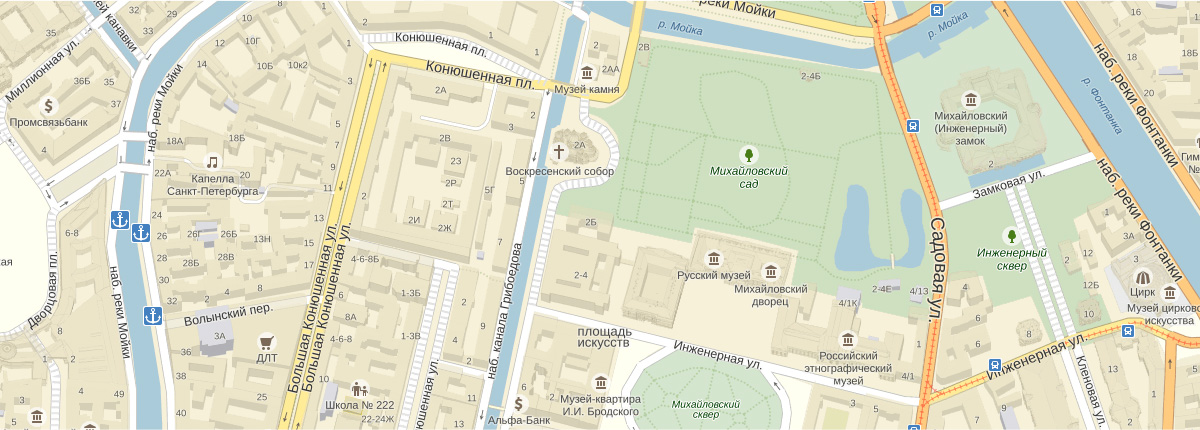
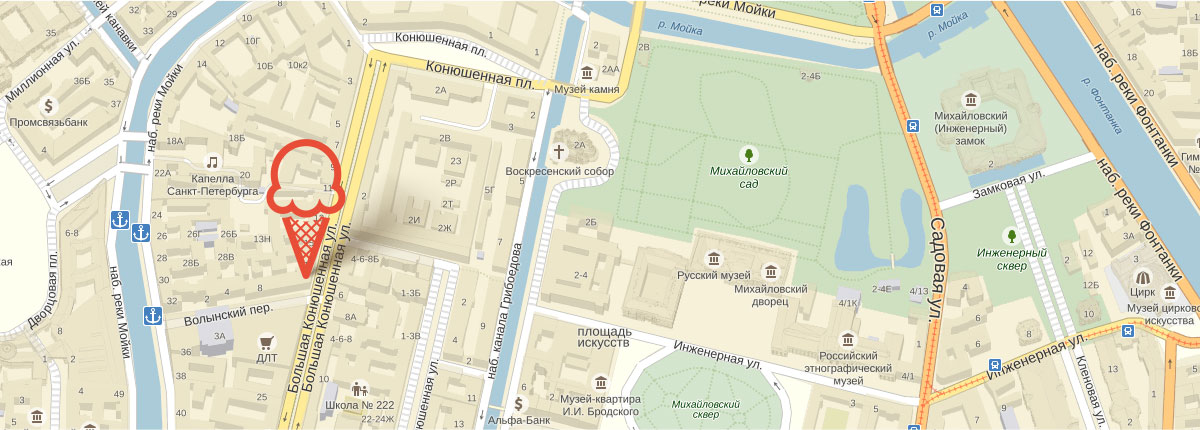
Добавления
Добавил форму "Мы обязательно вам ответим" на главную страницу , добавил скрытые заголовки+лейблы для форм.
Добавил visually-hidden в css файл.

Changed region(s): [[0.2158, 0.3023, 0.37, 0.6651], [0.74, 0.9977, 0.7708, 1.0]]

diff --git a/index.html b/index.html
@@ -4,6 +4,7 @@
 <head>
   <meta charset="utf-8">
   <title>HTML Academy: Глейси</title>
+  <link rel="stylesheet" href="css/style.css">
 </head>
 
 <body>
@@ -25,17 +26,19 @@
         <li><a href="#">О компании</a></li>
       </ul>
       <div class="search">
-        Поиск
         <form class="search-form" id="search-form" action="/" method="get">
-          <input type="text" name="search-question" placeholder="Что ищем?">
+          <label for="search-question" class="visually-hidden">Поиск</label>
+          <input type="text" name="search-question" id="search-question" placeholder="Что ищем?">
         </form>
       </div>
       <div class="signup">
-        Вход
+        <span class="enter-form">Вход</span>
         <form class="sign-form" id="sign-form" action="/" method="post">
-          <input type="email" name="email" placeholder="Электронная почта">
-          <input type="password" name="password" placeholder="Пароль">
-          <input class="btn" type="submit" value="Войти">
+          <label for="signup-email" class="visually-hidden">Электронная почта</label>
+          <input type="email" name="email" id="signup-email" placeholder="Электронная почта">
+          <label for="signup-password" class="visually-hidden">Пароль</label>
+          <input type="password" name="password" id="signup-password" placeholder="Пароль">
+          <input class="button" type="submit" value="Войти">
           <div class="signup_links">
             <a class="signup_link" href="#">
                     <span class="signup_link__password">Забыли пароль?</span></a>
@@ -57,7 +60,8 @@
     <section class="slider">
       <h2>Крем брюле и пломбир с малиновым джемом</h2>
       <h2>Шоколадный пломбир и лимонный сорбет</h2>
-      <h2>Пломбир с помадкой и клубничный щербет</h2> <a href="#" class="botton">Дайте оба!</a>
+      <h2>Пломбир с помадкой и клубничный щербет</h2>
+      <a href="#" class="button">Дайте оба!</a>
       <input type="radio" name="choose" value="a" checked>
       <input type="radio" name="choose" value="b">
       <input type="radio" name="choose" value="c">
@@ -65,13 +69,14 @@
     <section class="banner1">
       <h3>Малинка даром!</h3>
       <p>При покупке 2 кг любого фруктового мороженого, добавим в ваш заказ банку малинового варенья бесплатно.</p>
-      <a href="#" class="botton">Хочу варенье!</a>
+      <a href="#" class="button">Хочу варенье!</a>
     </section>
     <section class="banner2">
       <h3>Шоколадки даром!</h3>
       <p>При покупке 2 кг пломбира, добавим в ваш заказ упаковку вкуснейшей шоколадной присыпки совершенно бесплатно.</p>
-      <a href="#" class="botton">Хочу шоколадки!</a>
+      <a href="#" class="button">Хочу шоколадки!</a>
     </section>
+  <h2 class="visually-hidden">Хиты</h2>
     <div class="hits">
       <div class="catalog_item">
         <div class="catalog_item_prewiew_hit"></div>
@@ -111,7 +116,7 @@
         <li class="about_shop_icecream">Все наше мороженое изготавливается на собственном производстве, с использованием современного оборудования и проверенных временем технологий.</li>
         <li class="about_shop_cow">Для приготовления мороженого используются настоящие сливки и молоко высочайшего качества. Все дополнительные ингредиенты и добавки произведены из натурального, экологически чистого сырья.</li>
         <li class="about_shop_leaf">Закупка ингредиентов производится только у проверенных фермерских хозяйств и компаний, с которыми нас связывает долговременное сотрудничество.</li>
-        <li class="about shop_term">Доставка нашего мороженого до заказчиков осуществляется в специальном термопаке, который не дает мороженому растаять в пути и позволяет сохранить превосходный вкус.</li>
+        <li class="about_shop_term">Доставка нашего мороженого до заказчиков осуществляется в специальном термопаке, который не дает мороженому растаять в пути и позволяет сохранить превосходный вкус.</li>
       </ul>
     </div>
     <article class="news">
@@ -120,26 +125,30 @@
     </article>
     <div class="mailing">
       <p>Подпишитесь на нашу сладкую рассылку и будете всегда в курсе всего самого вкусного, что у нас происходит. Обещаем не спамить и не слать всякой ненужной ерунды. Честно =)</p>
-      <input type="email" placeholder="Электронная почта"><a href="#" class="botton">Отправить</a>
+      <form class="mail-form" id="mail-form" action="https://echo.htmlacademy.ru" method="post">
+        <label for="mail-input" class="visually-hidden">Электронная почта</label><input type="text" id="mail-input" placeholder="Электронная почта">
+        <button class="button" type="submit">Отправить</button></form>
     </div>
     <div class="map">
-      <!-- Здесь будет карта -->
+      <img src="img/map.jpg" width="1200" height="430" alt="Адрес главного офиса и офлайн-магазина: ул. Большая Конюшенная 19/8, Санкт-Петербург">
       <section class="address">
         <h4>Адрес главного офиса и офлайн-магазина:</h4>
         <p>ул. Большая Конюшенная 19/8, Санкт-Петербург</p>
         <p>Для заказов по телефону:</p>
-        <p>8 812 450-25-25<br> (с 10 до 20 ежедневно)
+        <p><b>8 812 450-25-25</b><br> (с 10 до 20 ежедневно)
         </p>
+        <a class="button" href="#">Форма обратной связи</a>
       </section>
     </div>
   </main>
   <footer class="main-footer">
-    <div class="social">
-      <a href="https://twitter.com/" class=" social-tw">Твиттер</a>
-      <a href="https://instagram.com/" class="social-ins">Инстаграм</a>
-      <a href="https://facebook.com/" class="social-fb">Фейбук</a>
-      <a href="https://vk.com/" class="social-vk">Вконтакте</a>
-    </div>
+    <section class="social-links">
+      <h2 class="visually-hidden">Социальные сети:</h2>
+      <a href="https://twitter.com/" class="social-tw" aria-label="Твиттер">Твиттер</a>
+      <a href="https://instagram.com/" class="social-ins" aria-label="Инстаграм">Инстаграм</a>
+      <a href="https://facebook.com/" class="social-fb" aria-label="Фейсбук">Фейсбук</a>
+      <a href="https://vk.com/" class="social-vk" aria-label="Вконтакте">Вконтакте</a>
+    </section>
     <ul class="footer_nav">
       <li><a href="#">Для поставщиков</a></li>
       <li><a href="#">О производстве</a></li>
@@ -151,6 +160,25 @@
       <br>Сделано в <a href="https://htmlacademy.ru/">HTML Academy</a>© 2017
     </p>
   </footer>
+  <section class="feedback">
+    <h2>Мы обязательно вам ответим!</h2>
+    <button class="button" type="button">Закрыть</button>
+    <form class="feedback-form" id="feedback-form" action="/" method="post">
+     <div class="feedback">
+      <label for="feedback-name">Как вас зовут?</label>
+      <input type="text" id="feedback-name" name="feedback-name" placeholder="Как вас зовут?">
+      </div>
+      <div class="feedback">
+      <label for="feedback-email">Ваша почта для ответа?</label>
+      <input type="email" id="feedback-email" name="feedback-email" placeholder="Ваша почта для ответа?">
+      </div>
+      <div class="feedback">
+      <label for="feedback-textarea">Напишите что-нибудь...</label>
+      <textarea id="feedback-textarea" name="feedback-textarea" placeholder="Напишите что-нибудь..."></textarea>
+      </div>
+      <button class="button" type="submit">Отправить</button>
+    </form>
+  </section>
 </body>
 
 </html>

diff --git a/catalog.html b/catalog.html
@@ -4,17 +4,19 @@
 <head>
   <meta charset="utf-8">
   <title>HTML Academy: Глейси</title>
+  <link rel="stylesheet" href="css/style.css">
 </head>
 
 <body>
   <header class="main-header">
     <nav class="main-navigation">
-      <a class="main-header-logo" href="index.html"><img src="img/logo.svg" width="154" height="64" alt="Логотип «Gllacy Shop»"></a>
+      <a href="index.html" class="main-header-logo">
+          <img src="img/logo.svg" width="154" height="64" alt="Логотип «Gllacy Shop»"></a>
       <ul class="site-navigation">
         <li><a href="#">Каталог</a>
-          <ul class="catalog">
+          <ul class="sub-menu">
             <li><b><a href="#">Новинки</a></b></li>
-            <li>Сливочное</li>
+            <li><a href="catalog.html">Сливочное</a></li>
             <li><a href="#">Щербеты</a></li>
             <li><a href="#">Фруктовый лед</a></li>
             <li><a href="#">Мелорин</a></li>
@@ -24,31 +26,34 @@
         <li><a href="#">О компании</a></li>
       </ul>
       <div class="search">
-        Поиск
         <form class="search-form" id="search-form" action="/" method="get">
-          <input type="text" name="search-question" placeholder="Что ищем?">
+          <label for="search-question" class="visually-hidden">Поиск</label>
+          <input type="text" name="search-question" id="search-question" placeholder="Что ищем?">
         </form>
       </div>
       <div class="signup">
-        Вход
+        <span class="enter-form">Вход</span>
         <form class="sign-form" id="sign-form" action="/" method="post">
-          <input type="email" name="email" placeholder="Электронная почта">
-          <input type="password" name="password" placeholder="Пароль">
-          <input class="btn" type="submit" value="Войти">
+          <label for="signup-email" class="visually-hidden">Электронная почта</label>
+          <input type="email" name="email" id="signup-email" placeholder="Электронная почта">
+          <label for="signup-password" class="visually-hidden">Пароль</label>
+          <input type="password" name="password" id="signup-password" placeholder="Пароль">
+          <button class="button" type="submit">Войти</button>
           <div class="signup_links">
             <a class="signup_link" href="#">
-              <span class="signup_link__password">Забыли пароль?</span></a>
+                    <span class="signup_link__password">Забыли пароль?</span></a>
             <a class="sign-link" href="#">
-              <span class="sign-link_reg">Новая регистрация</span></a>
+                    <span class="sign-link_reg">Новая регистрация</span></a>
           </div>
         </form>
       </div>
-      <div class="basket">
+      <section class="basket">
+        <h2 class="visually-hidden">Корзина</h2>
         <span class="basket_icon"></span>2 товара
         <table class="basket_table">
           <tr>
             <td>
-              <a class="botton_remove" href="#">X</a>
+              <button class="button_remove">Удалить</button>
             </td>
             <td><img src="img/ice-cream-1.jpg" width="33" height="33" alt="Пломбир с апельсиновым джемом"></td>
             <td>Пломбир с апельсиновым джемом</td>
@@ -57,7 +62,7 @@
           </tr>
           <tr>
             <td>
-              <a class="botton_remove" href="#">X</a>
+              <button class="button_remove">Удалить</button>
             </td>
             <td><img src="img/ice-cream-3.jpg" width="33" height="33" alt="Клубничный пломбир с присыпкой из белого шоколада"></td>
             <td>Клубничный пломбир с присыпкой из белого шоколада</td>
@@ -65,27 +70,28 @@
             <td>450 руб.</td>
           </tr>
           <tr>
-            <td colspan="5">Итого 750 руб.
-              <a class="btn" href="#">Оформить заказ</a>
+            <td class="basket-total" colspan="5">Итого 750 руб.
+              <a class="button" href="#">Оформить заказ</a>
             </td>
           </tr>
         </table>
-      </div>
+      </section>
     </nav>
     <div class="contacts">
+      <h2 class="visually-hidden">Время работы</h2>
       <p class="time_contact">С 10 до 20, ежедневно</p>
       <p class="phone">8 812 450-25-25</p>
     </div>
   </header>
   <main class="main">
     <ul class="breadcrumbs">
-      <li><a href="#">Главная  »</a></li>
+      <li><a href="index.html">Главная  »</a></li>
       <li><a href="#">Каталог  »</a></li>
       <li>Сливочное</li>
     </ul>
     <h1 class="catalog_header">Сливочное мороженое</h1>
     <section class="filters">
-      <h2 class="hidden">Фильтры:</h2>
+      <h2 class="visually-hidden">Фильтры:</h2>
       <form class="filters-form" id="filters-form" action="/" method="get">
         <fieldset class="sort">
           <legend>Сортировка:</legend>
@@ -118,7 +124,7 @@
       </form>
     </section>
     <section class="catalog">
-      <h2 class="hidden">Каталог:</h2>
+      <h2 class="visually-hidden">Каталог:</h2>
       <div class="catalog_item">
         <img class="catalog_img" src="img/ice-cream-1.jpg" width="267" height="267" alt="Мороженое">
         <p class="price"><span>310&#8381;</span>
@@ -202,12 +208,13 @@
     </ul>
   </main>
   <footer class="main-footer">
-    <div class="social">
-      <a href="https://twitter.com/" class=" social-tw"></a>
-      <a href="https://instagram.com/" class="social-ins"></a>
-      <a href="https://facebook.com/" class="social-fb"></a>
-      <a href="https://vk.com/" class="social-vk"></a>
-    </div>
+    <section class="social-links">
+      <h2 class="visually-hidden">Социальные сети:</h2>
+      <a href="https://twitter.com/" class="social-tw" aria-label="Твиттер">Твиттер</a>
+      <a href="https://instagram.com/" class="social-ins" aria-label="Инстаграм">Инстаграм</a>
+      <a href="https://facebook.com/" class="social-fb" aria-label="Фейсбук">Фейсбук</a>
+      <a href="https://vk.com/" class="social-vk" aria-label="Вконтакте">Вконтакте</a>
+    </section>
     <ul class="footer_nav">
       <li><a href="#">Для поставщиков</a></li>
       <li><a href="#">О производстве</a></li>

diff --git a/css/style.css b/css/style.css
@@ -1,0 +1,7 @@
+.visually-hidden {
+  position: absolute;
+  clip: rect(0 0 0 0);
+  width: 1px;
+  height: 1px;
+  margin: -1px;
+}
